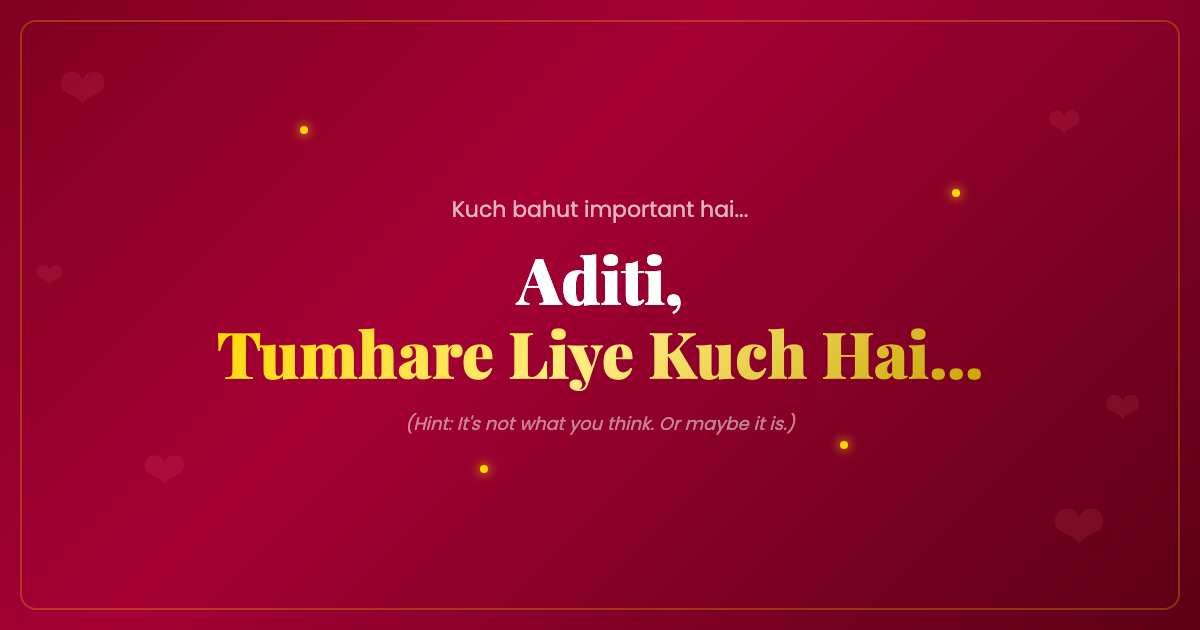
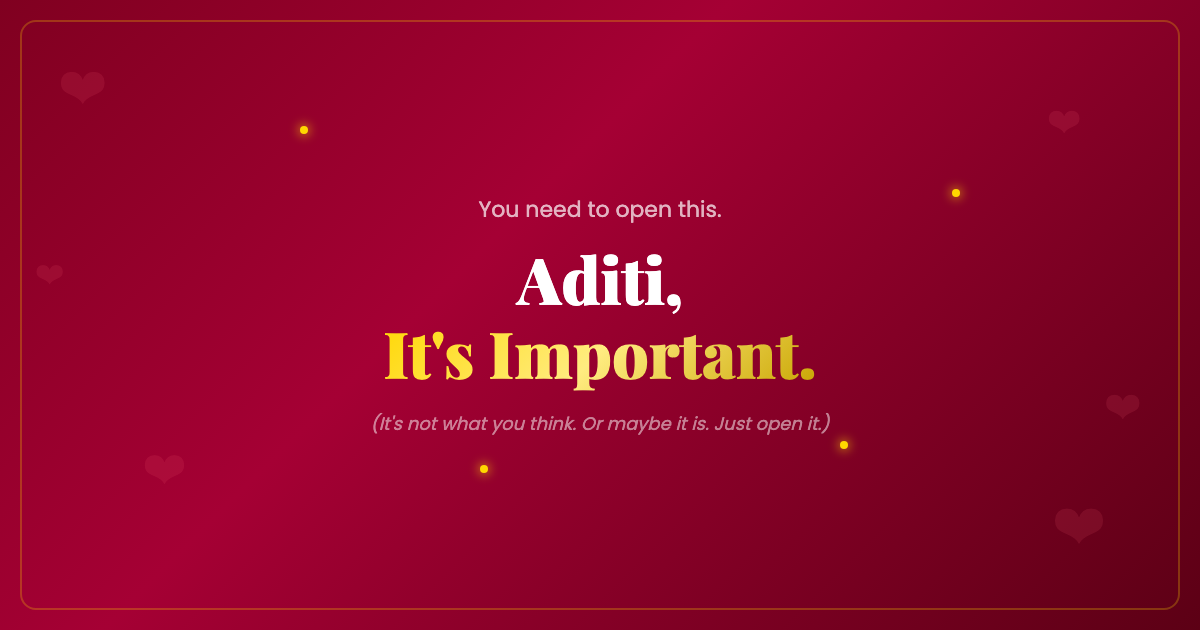
Rewrite all content to dry humor / deadpan sarcastic tone
Replace Hinglish/Bollywood text with English deadpan absurdist humor
across all visible content: intro lines, dialogues, contract terms,
love note, OG tags, and OG image. Pure text swap, no logic changes.

Changed region(s): [[0.185, 0.5127, 0.8325, 0.6333], [0.37, 0.3016, 0.6167, 0.3619], [0.3083, 0.6635, 0.7092, 0.6937]]

diff --git a/index.html b/index.html
@@ -3,12 +3,12 @@
 <head>
   <meta charset="UTF-8">
   <meta name="viewport" content="width=device-width, initial-scale=1.0, maximum-scale=1.0, user-scalable=no">
-  <title>Aditi, Tumhare Liye Kuch Hai...</title>
+  <title>Aditi, Open This. Trust Me.</title>
 
   <!-- Open Graph / WhatsApp Preview -->
   <meta property="og:type" content="website">
-  <meta property="og:title" content="Aditi, Tumhare Liye Kuch Hai...">
-  <meta property="og:description" content="Kuch bahut important hai. Please open karo. Seriously.">
+  <meta property="og:title" content="Aditi, You Need to Open This.">
+  <meta property="og:description" content="It's not a scam. Probably. Just open it.">
   <meta property="og:image" content="https://aditi-valentine.netlify.app/assets/og-image.png">
   <meta property="og:image:width" content="1200">
   <meta property="og:image:height" content="630">
@@ -51,9 +51,9 @@
   <div id="question-screen" class="screen active">
     <div class="content-wrapper dramatic-entrance">
       <p class="intro-text">
-        <span class="intro-line">Ek bahut bada sawaal hai...</span>
-        <span class="intro-line">Jiske jawab pe bahut kuch depend karta hai...</span>
-        <span class="intro-line">Tayyar ho?</span>
+        <span class="intro-line">This is a very important question.</span>
+        <span class="intro-line">Your answer will be recorded and used against you.</span>
+        <span class="intro-line">No pressure.</span>
       </p>
 
       <h1 class="main-question">
@@ -63,7 +63,7 @@
 
       <!-- Dialogue Box -->
       <div id="dialogue-box" class="dialogue-box" aria-live="polite">
-        <p id="dialogue-text">Choose wisely... ya nahi bhi choose karo, result toh ek hi hai.</p>
+        <p id="dialogue-text">Choose wisely. Or don't. There's really only one option here.</p>
       </div>
 
       <!-- No Attempt Counter -->
@@ -74,10 +74,10 @@
       <!-- Buttons -->
       <div id="button-container" class="button-container">
         <button id="yes-btn" class="btn btn-yes" type="button">
-          Haan, Obviously! &#10084;
+          Yes, Obviously &#10084;
         </button>
         <button id="no-btn" class="btn btn-no" type="button">
-          Nahi
+          No
         </button>
       </div>
     </div>
@@ -88,7 +88,7 @@
     <div class="content-wrapper celebration-entrance">
 
       <h1 class="celebration-title">YESSSSS!</h1>
-      <p class="celebration-subtitle">Maine pehle hi bol diya tha... result toh ek hi tha!</p>
+      <p class="celebration-subtitle">Called it. The outcome was never in doubt.</p>
 
       <!-- Celebration Dialogue -->
       <div id="celebration-dialogue" class="dialogue-box celebration-dialogue">
@@ -99,24 +99,24 @@
       <div class="contract-card">
         <div class="contract-header">
           <h2>Official Valentine Contract</h2>
-          <p class="contract-stamp">Legally, Emotionally &amp; Dramatically Binding</p>
+          <p class="contract-stamp">Legally Binding (Emotionally, At Least)</p>
         </div>
         <div class="contract-body">
           <p class="contract-date">Date: <span id="contract-date"></span></p>
-          <p class="contract-parties">Between: <strong>Aditi</strong> (hereinafter "The Valentine") and the creator of this website (hereinafter "The Dramatic One")</p>
+          <p class="contract-parties">Between: <strong>Aditi</strong> (hereinafter "The Valentine") and the person who built an entire website instead of just asking in person (hereinafter "The Dramatic One")</p>
 
           <h3>Terms &amp; Conditions:</h3>
           <ol class="contract-terms">
-            <li>This Valentine-ship is <strong>non-refundable, non-transferable, and non-negotiable</strong>.</li>
-            <li>No take-backs allowed. The "No" button was there for decoration only (as you may have noticed).</li>
-            <li>Auto-renewal every year. No opt-out clause exists.</li>
-            <li>Penalty for saying "I miss you" fewer than 100 times: <em>more "I miss you" texts</em>.</li>
-            <li>The Valentine must accept all Bollywood-level drama, random love declarations, and excessive heart emojis.</li>
-            <li id="attempts-clause">After <span id="contract-attempts">0</span> failed attempts to click "No", The Valentine has officially proven that resistance is futile.</li>
+            <li>This Valentine-ship is <strong>non-refundable, non-transferable, and definitely non-negotiable</strong>.</li>
+            <li>The "No" button was a formality. A courtesy. A lie.</li>
+            <li>This contract auto-renews every year. The unsubscribe link does not exist.</li>
+            <li>Minimum "I miss you" quota: 100 per month. Failure to comply results in <em>more "I miss you" texts</em>.</li>
+            <li>The Valentine must tolerate all spontaneous compliments, unsolicited affection, and websites built at 2 AM.</li>
+            <li id="attempts-clause">After <span id="contract-attempts">0</span> failed attempts to click "No," The Valentine has empirically proven that resistance is, in fact, futile.</li>
           </ol>
 
           <div class="contract-signature">
-            <p>Signed with love, drama, and zero chill,</p>
+            <p>Signed with mass-produced sincerity and zero regret,</p>
             <p class="signature-heart">&#10084;</p>
           </div>
         </div>
@@ -124,21 +124,30 @@
 
       <!-- Love Note -->
       <div class="love-note">
-        <h2>But seriously, Aditi...</h2>
+        <h2>Okay but actually, Aditi...</h2>
         <p>
-          Tumhe pata hai na, tum kitni special ho? Ye website toh bas ek excuse hai
-          tumhe ye batane ke liye ki tum mere liye kitni matter karti ho.
+          Look, I know I just made you fight a sentient button for
+          five minutes. And yes, I made you sign a legally dubious
+          contract. Classic romance.
         </p>
         <p>
-          Har ek line of code mein thoda sa pyaar hai (aur bahut saara drama, obviously).
-          But that's how it should be, right?
+          But here's the thing &mdash; underneath all the sarcasm and
+          the dramatic nonsense, there's a pretty simple truth:
+          you're my favorite person.
         </p>
         <p>
-          So here's to us &mdash; to all the laughs, the late-night talks, the silly fights,
-          and everything in between. You make everything better just by being you.
+          Not in a hallmark-card way. In a "you make
+          the ordinary stuff better just by being there" way.
+          The dumb jokes. The comfortable silences.
+          The fact that you put up with... well, this.
+        </p>
+        <p>
+          So yeah. I built you a whole website because apparently
+          a normal "will you be my valentine" text wasn't enough
+          for me. That's who I am. You signed up for this.
         </p>
         <p class="love-note-ending">
-          Happy Valentine's Day &#10084;
+          Happy Valentine's Day. You're stuck with me. &#10084;
         </p>
       </div>
     </div>

diff --git a/js/main.js b/js/main.js
@@ -19,49 +19,45 @@
   let celebDialogueIndex = 0;
   let celebDialogueInterval = null;
 
-  // ===== Bollywood Dialogues (20 total, escalating) =====
+  // ===== No-Attempt Dialogues (20 total, deadpan → absurdist) =====
   const dialogues = [
-    // Tier 1 (1-5): Surprised
-    "Ye kya kar rahi ho?! Sochna padega kya ismein?",
-    "Dil hai, khilona nahi! (But seriously, Yes daba do)",
-    "Arre wah, phir se try? Button bhi sharma raha hai.",
-    "Itna mushkil nahi hai... Yes wahi hai, bada wala, golden.",
-    "Tumne Sholay dekhi hai? Woh Basanti ka scene... bas wahi feel hai abhi.",
+    "Interesting choice. Wrong, but interesting.",
+    "The button moved. That's not a bug. That's a feature.",
+    "You're really committing to this bit, huh.",
+    "I admire the persistence. Not the judgment, but the persistence.",
+    "Fun fact: no one in the history of this website has successfully clicked No.",
 
-    // Tier 2 (6-10): SRK mode + desperate
-    "\"Ek baar jo maine commitment kar di, toh phir...\" - woh toh Yes ke baad hoga!",
-    "Pushpa... I mean Aditi, flower nahi, FIRE hai ye proposal!",
-    "Button bhi thak gaya hai bhaagte bhaagte. Daya karo.",
-    "SRK hota toh ab tak baarish mein khada hota. Main code likh raha hoon.",
-    "Ye button ab therapy manga raha hai. Khush ho?",
+    "The button is now questioning your commitment to this relationship.",
+    "I spent hours coding this. You could at least pretend to be impressed.",
+    "At this point the button is running out of places to hide.",
+    "You know this ends with you clicking Yes, right? We both know.",
+    "The button just filed a restraining order against your cursor.",
 
-    // Tier 3 (11-15): Absurd escalation
-    "BREAKING NEWS: Local button refuses to be clicked. Nation wants to know WHY.",
-    "Devdas nahi banunga main. Isliye No button bhi nahi milega tumhe.",
-    "Button ne apna resignation de diya hai. Ab sirf Yes hai.",
-    "UN mein complaint file kar raha hoon: 'Button harassment'",
-    "Ye button ab witness protection programme mein hai.",
+    "BREAKING: Local button evades capture. Authorities baffled.",
+    "I could've just texted you. But no. I had to be \u2728 extra \u2728 about it.",
+    "The button has entered witness protection. New identity. New life.",
+    "Plot twist: the No button was never real. It was the friends we made along the way.",
+    "My therapist said this website is 'a lot.' I said thank you.",
 
-    // Tier 4 (16-20): Full chaos
-    "Button ne therapy leni shuru kar di hai. Therapist ne bola: 'Just say Yes.'",
-    "NASA confirmed: Button ab orbit mein hai. Catch karna mushkil hai.",
-    "Button ka autobiography aa rahi hai: 'The One Who Was Never Clicked'",
-    "Guinness World Record: Most failed attempts to reject a Valentine. Congratulations!",
-    "Plot twist: Button ne khud Yes bol diya. Bas tum bhi bol do."
+    "Okay genuinely \u2014 how are you still trying.",
+    "The button wrote a resignation letter. It was very emotional.",
+    "NASA called. They found the button. It's orbiting Jupiter.",
+    "Congratulations. You've unlocked the secret ending. It's still Yes.",
+    "I'm not even mad. I'm impressed. But also click Yes."
   ];
 
   // ===== Celebration Dialogues (10 rotating) =====
   const celebrationDialogues = [
-    "FINALLY! Itna drama kyun karna tha? Seedha Yes bol deti!",
-    "Mujhe pata tha... tum mana nahi kar sakti thi. Filmy hai ye, but TRUE!",
-    "Somewhere, SRK is smiling. Uski training kaam aa gayi.",
-    "Ab contract sign ho gaya hai. No take-backs. Maine lawyer se check karaya.",
-    "Confetti budget exhaust ho gaya hai, but feelings infinite hai.",
-    "Ye Valentine's Day nahi, HISTORY hai. Save the date!",
-    "Tumne Yes bola... aur duniya thodi better ho gayi.",
-    "Bollywood mein hota toh ab background mein \"Tum Hi Ho\" bajta.",
-    "Main already celebration mein hoon. Tum bhi aa jao!",
-    "Best decision of 2025. (Okay fine, every year.)"
+    "Finally. I was starting to think I'd have to add more code.",
+    "The button can rest now. You've freed it. It's at peace.",
+    "Somewhere, a developer just shed a single tear of joy.",
+    "The contract is binding. I checked. I didn't check with a lawyer, but still.",
+    "This confetti is coming out of my personal confetti budget, by the way.",
+    "You said Yes. No take-backs. I already mass-produced the announcement cards.",
+    "This is now a legally recognized holiday. Source: trust me.",
+    "The No button sends its regards. And also a therapy bill.",
+    "Best decision you've made today. Low bar, but still.",
+    "I'd play romantic music right now but I couldn't figure out the audio API."
   ];
 
   // ===== No Button Evasion Logic =====
@@ -136,11 +132,11 @@
     }
 
     if (noAttempts === 13) {
-      noBtn.textContent = 'Soch lo...';
+      noBtn.textContent = 'Reconsider';
     }
 
     if (noAttempts === 16) {
-      noBtn.textContent = 'Okay fine, Yes';
+      noBtn.textContent = 'Fine, Yes';
     }
 
     if (noAttempts >= 20) {
@@ -277,7 +273,7 @@
       // Update attempts clause text based on count
       if (noAttempts === 0) {
         document.getElementById('attempts-clause').textContent =
-          'The Valentine wisely chose "Yes" on the first try. Impressive taste.';
+          'The Valentine clicked Yes immediately. No drama required. Suspicious, but accepted.';
       }
 
       // More confetti on celebration screen

diff --git a/assets/og-image.html b/assets/og-image.html
@@ -101,12 +101,12 @@
     <span class="sparkle"></span>
   </div>
   <div class="content">
-    <p class="subtitle">Kuch bahut important hai...</p>
+    <p class="subtitle">You need to open this.</p>
     <h1 class="title">
       Aditi,<br>
-      <span class="highlight">Tumhare Liye Kuch Hai...</span>
+      <span class="highlight">It's Important.</span>
     </h1>
-    <p class="hint">(Hint: It's not what you think. Or maybe it is.)</p>
+    <p class="hint">(It's not what you think. Or maybe it is. Just open it.)</p>
   </div>
 </body>
 </html>
